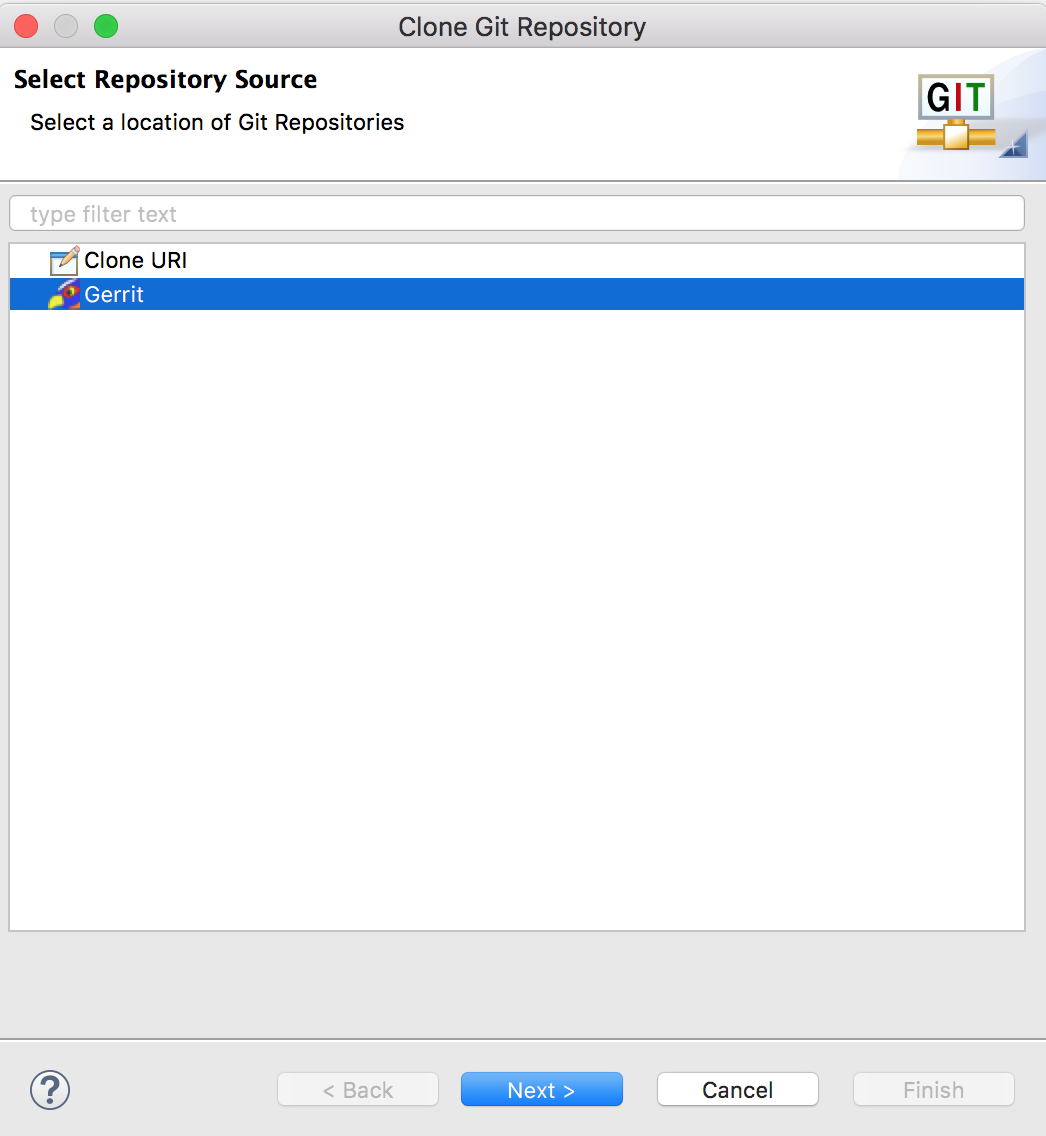
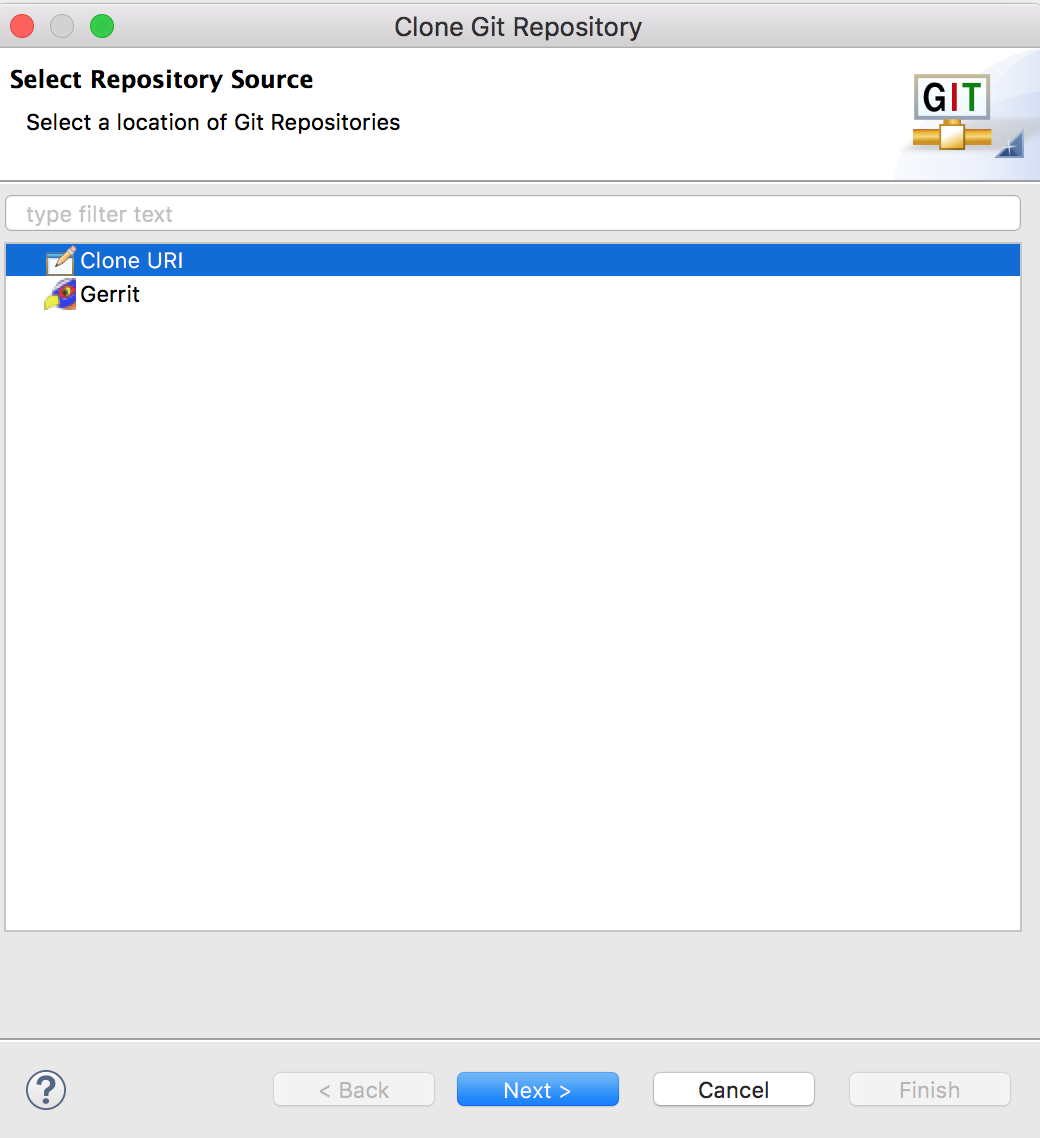
Updating Eclipse installation instructions with fewer font changes.

diff --git a/doc/eclipse/mac/eclipseVC.htm b/doc/eclipse/mac/eclipseVC.htm
@@ -23,7 +23,7 @@
     <p>In Eclipse, add the ptII Git Repository:</p>
 
     <ol>
-      <li>Choose the <code>Window</code> menu | <code>Show View</code> | <code>Other</code> | <code>Git</code> | <code>Git Repositories</code> and then hit Open:
+      <li>Choose the Window menu | Show View | Other | Git | Git Repositories and then hit Open:
         <center>
 	  <p><img src="../../img/eclipseShowView.png" alt="Eclipse Git Show View" width="302" height="414"></p>
         </center>
@@ -34,10 +34,10 @@
         <center>
 	  <p><img src="../../img/eclipseGitRepositories.png" alt="Eclipse Git Repositories" width="804" height="232"></p>
         </center>
-        In the Git Repository View select <code>Clone a Git repository</code>.
+        In the Git Repository View select Clone a Git repository.
       </li>
 
-      <li>In the Select Repository Source window, select <code>Clone URI</code> and click on Next:
+      <li>In the Select Repository Source window, select Clone URI and click on Next:
         <center>
 	  <p><img src="../../img/eclipseCloneGitRepository.png" alt="Eclipse Clone Git Repository" width="523" height="568"></p>
         </center>
@@ -56,7 +56,7 @@
 
       </li>
 
-      <li>In the Branch Selection window, click on <code>Deselect All</code>, then click on the box next to the <code>master</code> branch, then Next:
+      <li>In the Branch Selection window, click on Deselect All, then click on the box next to the master branch, then Next:
         <center>
 	  <p><img src="../../img/eclipseBranchSelection.png" alt="Eclipse Branch Selection" width="527" height="569"></p>
         </center>        
@@ -65,7 +65,7 @@
           <table border="1">
             <tr>
 	      <td>
-	        Be sure to check out the <b><code>master</code></b> branch and not the
+	        Be sure to check out the <b>master</b> branch and not the
 	        entire tree, which include all the branches and the trunk.
 	      </td>
             </tr>
@@ -86,7 +86,7 @@
     <p> To set up the Eclipse project, follow these steps:</p>
     <ol>
       <li> In the File menu, select New | Project ..</li>
-      <li> In the New Project window, select Java &gt; Java project, Click Next.
+      <li> In the New Project window, select Java | Java project, Click Next.
         <center>
 	  <p><img src="../../img/eclipseNewProject.png" alt="Eclipse New Project" width="528" height="502"></p>
         </center>
@@ -121,15 +121,28 @@
           file does not support having the output files the same as the
           project.</p>
         <p>Here's the Java Settings window:</p>
-      <center>
-	<p><img src="../../img/eclipseCreateAJavaProject.png" alt="Eclipse Create A Java Project" width="587" height="723"></p>
-      </center>
+        <center>
+	  <p><img src="../../img/eclipseJavaSettings.png" alt="Eclipse Java Settings" width="587" height="723"></p>
+        </center>
+
+        <blockquote>
+          <table border="1">
+            <tr>
+	      <td>
+                Be sure to change the Default output folder from ptII/bin to a directory that does not exist,
+                such as ptII/eclipse.  If the output folder is <code>ptII/bin</code>, then Eclipse will <b>remove
+                  the contents of <code>$PTII/bin</code> including <code>$PTII/bin/vergil</code>, which is how
+                  Ptolemy II is started from the command line.</b>
+	      </td>
+            </tr>
+          </table>
+        </blockquote>
 
       </li>
       <li> Click Finish.</li>
 
       <li> The Open Associated Perspective? window will appear.  Click Open Perspective.</li>
-        
+      
       <li> There will likely be many errors.  These are soled in the next step.
         </br>All users should go on to <a href="setupClasspath.htm" target="main">Set up the Eclipse ptII project .classpath for Ptolemy II</a>
       </li>
